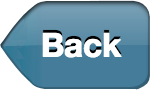
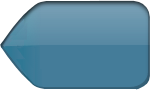
text view implementation stage 1, without save

Changed region(s): [[0.2667, 0.3333, 0.8267, 0.6444]]

diff --git a/app/screens/header_view.rb b/app/screens/header_view.rb
@@ -21,6 +21,25 @@ class HeaderView < UIView
     add_back_button_if_needed
   end
 
+  def add_done_button view
+    done_button = UIButton.buttonWithType(UIButtonTypeCustom)
+    color = {:red => 0.007, :green => 0.339, :blue => 0.437, :alpha => 1}
+    done_button.setBackgroundImage(UIImage.imageNamed("done-button.png"), forState: UIControlStateNormal)
+    done_button.setTitle("Done", forState: UIControlStateNormal)
+    subview(done_button,:done_button)
+    done_button.on_tap { done_button_handler view, done_button }
+    apply_border_radius(done_button, 5)
+    done_button.layer.masksToBounds = true
+  end
+
+  def done_button_handler view, done_button
+    done_button.removeFromSuperview
+    view.text_area.resignFirstResponder
+    new_frame = view.superview.frame
+    new_frame.origin.y += view.y_offset
+    UIView.animateWithDuration(0.2, animations: lambda{view.superview.frame = new_frame})
+  end
+  
   def add_logo
     image = UIImage.imageNamed('logo.png')
     imageView = UIImageView.alloc.initWithImage(image)
@@ -53,6 +72,7 @@ class HeaderView < UIView
       # apply_click_highlight(back_button)
       back_button.setBackgroundImage(UIImage.imageNamed("backbutton-normal.png"), forState: UIControlStateNormal)
       back_button.setBackgroundImage(UIImage.imageNamed("backbutton-highlighted.png"), forState: UIControlStateHighlighted)
+      back_button.setTitle(" Back", forState: UIControlStateNormal)
       subview(back_button,:back_button)
       self.addSubview(back_button)
       back_button.on_tap { back_to_previous_screen }

diff --git a/app/screens/form_fields/multi_line.rb b/app/screens/form_fields/multi_line.rb
@@ -1,0 +1,38 @@
+class MultiLineField < UIView
+  attr_accessor :text_area, :y_offset
+  stylesheet :main
+
+  def initialize(args = {})
+    self.initWithFrame(CGRectMake(0, args[:origin_y], args[:max_width], 100))
+    @header_view = args[:header_view]
+    @text_area = UITextView.alloc.initWithFrame(self.bounds)
+    @text_area.delegate = self
+    @text_area.setFont(UIFont.systemFontOfSize(16))
+    @text_area.layer.cornerRadius = 5
+    @keyboard_observer = App.notification_center.observe UIKeyboardDidShowNotification do |notification|
+      key_board_shown(notification)
+    end
+    
+    subview(@text_area)
+  end
+  
+  def key_board_shown notification
+    @header_view.add_done_button self
+    new_frame = self.superview.frame
+    new_frame.origin.y -= calculate_displacement(get_keyboard_height(notification))
+    UIView.animateWithDuration(0.2, animations: lambda{self.superview.frame = new_frame})
+  end
+
+  def get_keyboard_height notification
+    key_board_object = notification.userInfo.objectForKey("UIKeyboardFrameEndUserInfoKey")
+    key_board_object.CGRectValue.size.height
+  end
+
+  def calculate_displacement(kb_height)
+    screen_height = UIScreen.mainScreen.bounds.size.height
+    text_view_height = self.frame.size.height
+    text_view_origin_y = self.frame.origin.y
+    @y_offset = (kb_height - (screen_height - (text_view_height + text_view_origin_y + self.superview.frame.origin.y + ControlVariables::HeaderHeight)))
+    @y_offset > 0 ? @y_offset : 0
+  end
+end

diff --git a/app/styles/main.rb b/app/styles/main.rb
@@ -14,7 +14,6 @@ Teacup::Stylesheet.new :main do
     backgroundColor: @survey_item_background_color,
     textColor: @survey_item_text_color
 
-  
   style :survey_item_heading, extends: :survey_item,
     font: @heading_text_font
 
@@ -32,6 +31,11 @@ Teacup::Stylesheet.new :main do
   style :back_button,
     backgroundColor: UIColor.colorWithRed(0.007, green: 0.339, blue: 0.437, alpha: 0),
     frame: [[5, 7],[60, 35]],
+    font: UIFont.systemFontOfSize(14)
+
+  style :done_button,
+    backgroundColor: UIColor.colorWithRed(0.007, green: 0.339, blue: 0.437, alpha: 0),
+    frame: [[265, 7],[48, 35]],
     font: UIFont.systemFontOfSize(14)
 
   style :radio_buttons_table

diff --git a/app/screens/questions/views/field_view.rb b/app/screens/questions/views/field_view.rb
@@ -73,6 +73,13 @@ class FieldView < UIView
     self.addSubview(text_field)
   end
 
+  def handle_MultilineQuestion
+    origin = get_origin_y self
+    header_view = QuestionScreen.this_controller.header_view
+    text_area = MultiLineField.new({:origin_y => origin + ControlVariables::QuestionMargin, :max_width => MAX_WIDTH, :header_view => header_view})
+    self.addSubview(text_area)
+  end
+
   def get_radio_options
     questions = Question.find(:id => self.question_id).first.radio_options.to_a
     questions.collect{|option| option.content}

diff --git a/spec/screens/header_view.rb b/spec/screens/header_view.rb
@@ -31,5 +31,13 @@ describe "Header View" do
     navigation_controller.should.receive(:popViewControllerAnimated)
     @header_view.back_to_previous_screen
   end
+
+  it "add a button with text done to its view" do
+    view = UIView.alloc.initWithFrame([[200,0],[44,44]])
+    @header_view.add_done_button view
+    buttons = @header_view.subviews.select{|view| view.class == UIButton}
+    buttons.count.should == 2
+    buttons.last.titleForState(UIControlStateNormal).should == "Done"
+  end
   
 end

diff --git a/spec/screens/form_fields/multi_line_spec.rb b/spec/screens/form_fields/multi_line_spec.rb
@@ -1,0 +1,11 @@
+describe "MultiLine" do
+  before do
+    header_view = HeaderView.new({:title => "My Test Header"})
+    @multiline_view = MultiLineField.new({:origin_y => 10, :max_width => 300, :header_view => header_view})
+  end
+
+  it "should have a text view" do
+    text_views = @multiline_view.subviews.select{|subview| subview.class == UITextView}
+    text_views.length.should == 1
+  end
+end

diff --git a/app/screens/questions/questions_screen.rb b/app/screens/questions/questions_screen.rb
@@ -42,6 +42,7 @@ class QuestionScreen < PM::Screen
   end
   
   def will_appear
+    self.view.bringSubviewToFront(self.header_view)
     self.navigationController.setNavigationBarHidden(true, animated: false)
   end
 
